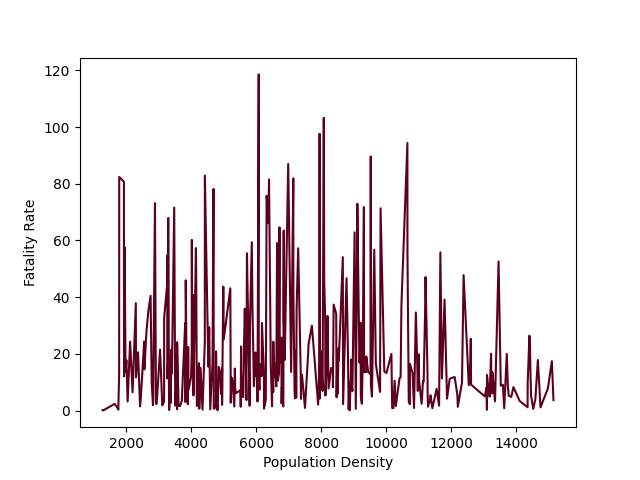
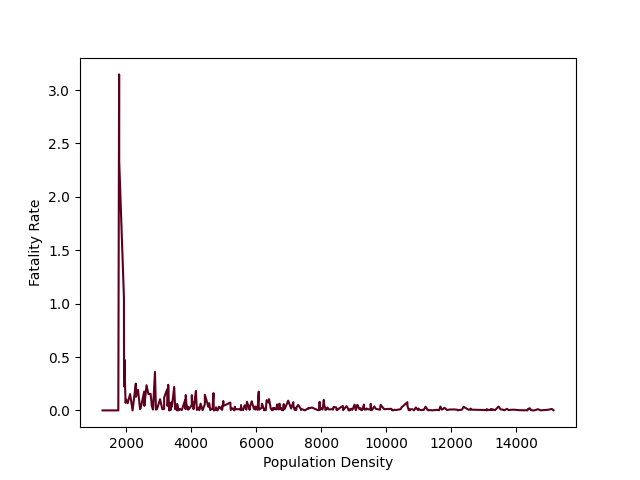
redid certain graphs

diff --git a/line_graphs.py b/line_graphs.py
@@ -185,17 +185,6 @@ try:
         elif y == 2:
             for i in pop_index:
                 for j in range(filterl, filteru):
-                    sum += reqlist[i][filter_by][j][cond][0]
-                num.append(sum)
-                sum = 0
-            for i in pop_index:
-                denom.append(reqlist[i]['population'])
-            for i in pop_index:    
-                y_axis.append((num[i]/denom[i])*100)
-                
-        elif y == 3:
-            for i in pop_index:
-                for j in range(filterl, filteru):
                     sum += reqlist[i][filter_by][j][cond][1]
                 num.append(sum)
                 sum = 0
@@ -203,9 +192,19 @@ try:
                 for j in range(filterl, filteru):
                     sum += reqlist[i][filter_by][j][cond][0]
                 denom.append(sum)
+            for i in pop_index:    
+                y_axis.append((num[i]/denom[i])*100)
+                
+        elif y == 3:
+            for i in pop_index:
+                for j in range(filterl, filteru):
+                    sum += reqlist[i][filter_by][j][cond][0]
+                num.append(sum)
                 sum = 0
             for i in pop_index:
-                y_axis.append((num[i]/denom[i])*100)
+                denom.append(reqlist[i]['population'])
+            for i in pop_index:
+                y_axis.append(num[i]/denom[i])
         elif y == 4:
             for i in pop_index:
                 for j in range(filterl, filteru):
@@ -228,7 +227,7 @@ try:
     plt.xlabel(xl)
     plt.ylabel(yl)
 
-    plt.savefig("InfectionRateVsPopDensity")
+    plt.savefig("InfectionVsPopDensity")
     plt.show()
 except:
     print("lol idk")
